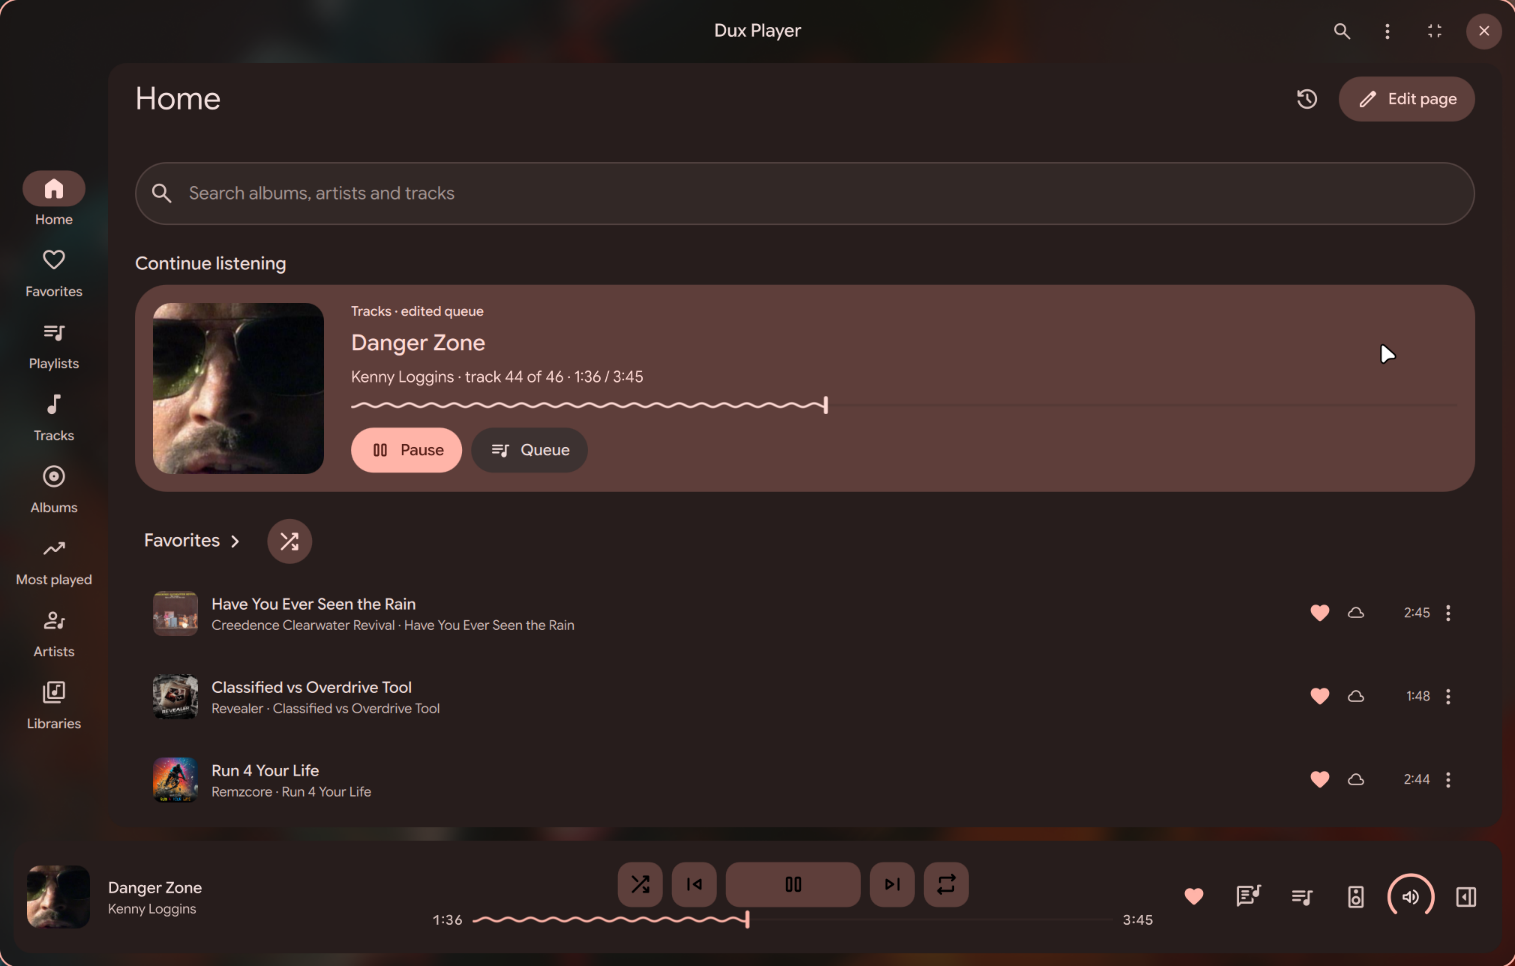
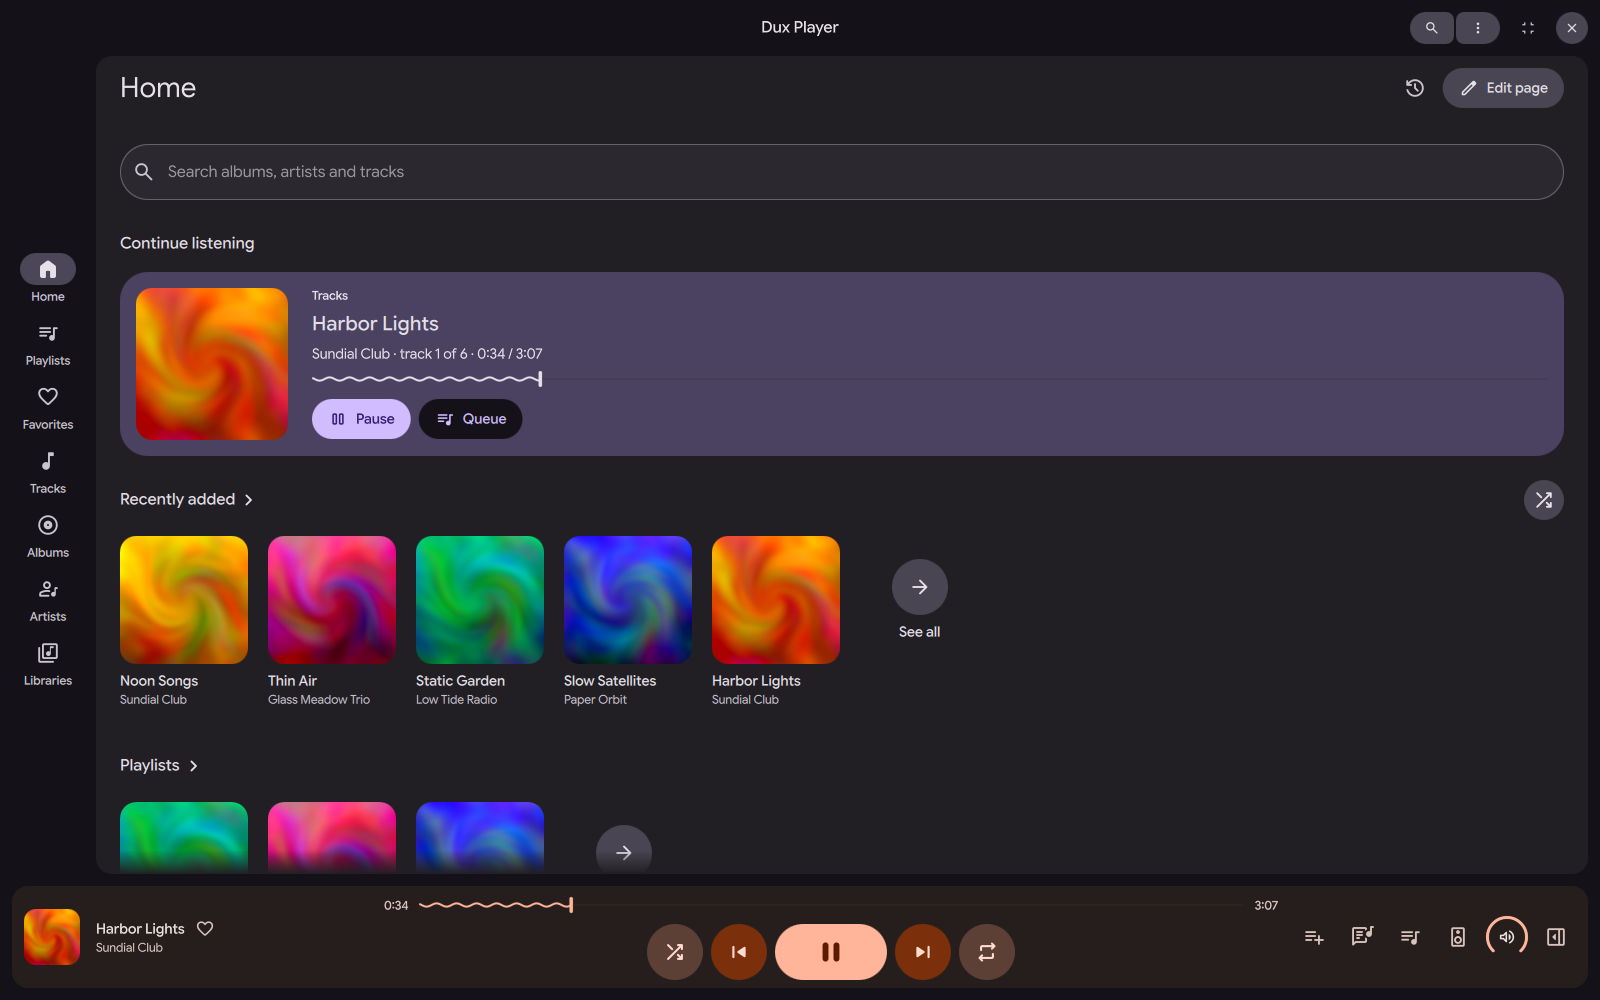
docs: new screenshots from a made-up library
Three highlights and ten more in a collapsed section, regenerated with
scripts/headless/readme.sh.

diff --git a/README.md b/README.md
@@ -6,15 +6,32 @@ Dux Player plays local libraries and streams from Navidrome, Subsonic and Jellyf
 
 > **Status: 0.0.1-alpha.** Early Development Version
 
-![Home](docs/screenshots/home.png)
+![Home with the player bar](docs/screenshots/home.png)
 
-| Side panel with lyrics | Full view |
+| Full view, Bento | Full view, Material |
 |---|---|
-| ![Most played with the side panel](docs/screenshots/side-panel.png) | ![Full view with lyrics](docs/screenshots/now-playing.png) |
+| ![Full view in the Bento style](docs/screenshots/now-playing.png) | ![Full view in the Material style](docs/screenshots/now-playing-material.png) |
+
+<details>
+<summary>More screenshots</summary>
+
+| Synced lyrics | Queue beside the player |
+|---|---|
+| ![Synced lyrics in the Bento full view](docs/screenshots/lyrics.png) | ![Queue beside the Material player](docs/screenshots/material-queue.png) |
+| **Side panel** | **Light mode** |
+| ![Home with the side panel](docs/screenshots/side-panel.png) | ![Home in light mode](docs/screenshots/light.png) |
+| **Albums** | **Album** |
+| ![Albums page](docs/screenshots/albums.png) | ![An album page](docs/screenshots/album.png) |
+| **Playlists** | **Add to playlists** |
+| ![Playlists page](docs/screenshots/playlists.png) | ![Dialog listing which playlists hold the track](docs/screenshots/playlist-dialog.png) |
+| **Settings** | **Settings search** |
+| ![Now playing settings](docs/screenshots/settings.png) | ![Settings search results](docs/screenshots/settings-search.png) |
+
+</details>
 
 ## Features
 - Local libraries (several folders, indexed and watched) and any number of server libraries
-- Local playlists that mix tracks from any library, plus server native playlists
+- Local playlists that mix tracks from any library, plus server native playlists; add a track to several at once and see which ones hold it
 - Offline rules per server library, caching and preloading the next songs for a seamless experience; favorites and ratings set while a server is unreachable are sent once it is back
 - Gapless playback, crossfade, volume normalization, skipping leading and trailing silence, equalizer several outputs at once
 - Synced lyrics, scrobbling (through the server, or to ListenBrainz and Last.fm), casting through [dux-cast](https://github.com/Conava/dux-cast)
